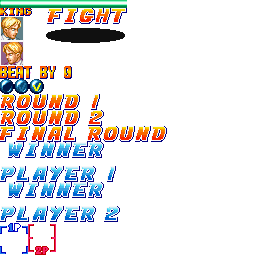
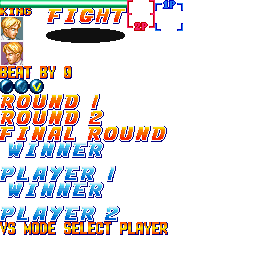
Module CharacterSelection improved

diff --git a/Art_Of_Fighting/ModuleCharacterSelect.cpp b/Art_Of_Fighting/ModuleCharacterSelect.cpp
@@ -12,12 +12,28 @@
 
 ModuleCharacterSelect::ModuleCharacterSelect()
 {
+	graphics = NULL;
+	graphicsUI = NULL;
+
 	background.x = 0;
 	background.y = 0;
 	background.h = 224;
 	background.w = 304;
 
+	SquareP1.x = 155;
+	SquareP1.y = 0;
+	SquareP1.w = 28;
+	SquareP1.h = 31;
 
+	SquareP2.x = 127;
+	SquareP2.y = 0;
+	SquareP2.w = 28;
+	SquareP2.h = 31;
+
+	SelectPlayer.x = 0;
+	SelectPlayer.y = 222;
+	SelectPlayer.w = 168;
+	SelectPlayer.h = 13;
 }
 
 ModuleCharacterSelect::~ModuleCharacterSelect()
@@ -28,12 +44,11 @@ bool ModuleCharacterSelect::Start()
 	LOG("Loading background assets");
 	bool ret = true;
 
-	graphics_selection = App->textures->Load("media/CharacterSelection/BackgroundSelection.png");
-	/*introTexture = App->textures->Load("media/WelcomeScreen/introtitle.png");
-	welcomeScreenMusic = App->audio->LoadMusic("media/Music/welcomescreen.ogg");
+	graphics = App->textures->Load("media/CharacterSelection/BackgroundSelection.png");
+	graphicsUI = App->textures->Load("media/UI/ui.png");
 
 	
-	App->audio->PlayMusic(welcomeScreenMusic);*/
+	App->audio->PlayMusic(welcomeScreenMusic);
 
 	App->render->camera.x = 0;
 	App->render->camera.y = 0;
@@ -48,7 +63,8 @@ bool ModuleCharacterSelect::CleanUp()
 	LOG("Unloading honda stage");
 	App->player->Disable();
 	App->player2->Disable();
-	App->textures->Unload(graphics_selection);
+	App->textures->Unload(graphics);
+	App->textures->Unload(graphicsUI);
 	App->audio->UnLoadMusic(welcomeScreenMusic);
 
 
@@ -56,61 +72,16 @@ bool ModuleCharacterSelect::CleanUp()
 	return true;
 }
 
-//void ModuleCharacterSelect::RenderWords()
-//{
-//	/*App->render->BlitWithScale(introTexture, of.position.x, of.position.y, &(of.rect), of.scale, 1.0f, 1.0f, MIDDLE);
-//	App->render->Blit(introTexture, art.position.x, art.position.y, &(art.rect));
-//	App->render->Blit(introTexture, fighting.position.x, fighting.position.y, &(fighting.rect));*/
-//	//App->render->DrawQuad({ 0, 0, SCREEN_WIDTH, SCREEN_HEIGHT }, 255, 255, 255, 255 * (1 - of.scale), true);
-//}
 
 update_status ModuleCharacterSelect::Update()
 {
-	// Draw everything --------------------------------------
-	//switch (animationState)
-	//{
-	//case Enter:
-	//	art.position += finalArtPosition1;
-	//	of.scale += 0.02f;
-	//	step++;
-	//	if (step >= 40)
-	//	{
-	//		animationState = GoBack;
-	//		step = 0;
-	//	}
-	//	RenderWords();
-	//	break;
-	//case GoBack:
-	//	art.position -= finalArtPosition2;
-	//	of.scale += 0.02f;
-	//	fighting.position += {0, -4};
+	
 
-	//	step++;
-	//	if (step >= 20)
-	//	{
-	//		step = 0;
-	//		animationState = Fighting;
-	//	}
-	//	RenderWords();
-	//	break;
-	//case Fighting:
-	//	fighting.position += {0, -7};
-	//	step++;
-	//	if (step >= 20)
-	//	{
-	//		animationState = Done;
-	//	}
-	//	RenderWords();
-	//	break;
-	//case Done:
-	//	//RenderWords();
-	//	App->render->Blit(graphics, 0, 0, &(Welcomeimage.GetCurrentFrame()));
-	//	break;
-	//default:
-	//	break;
-	//}
+	App->render->Blit(graphics, 0, 0, &background, 0.0);
+	App->render->Blit(graphicsUI, 70, 15, &SelectPlayer, 0.0);
+	App->render->Blit(graphicsUI, 96, 151, &SquareP1, 0.0);
+	App->render->Blit(graphicsUI, 96, 182, &SquareP2, 0.0);
 
-	App->render->Blit(graphics_selection, 0, 0, &background);
 
 	if (App->input->keyboard[SDL_SCANCODE_SPACE] == 1)
 	{

diff --git a/Art_Of_Fighting/ModuleCharacterSelect.h b/Art_Of_Fighting/ModuleCharacterSelect.h
@@ -20,10 +20,15 @@ public:
 
 public:
 
-	SDL_Texture* graphics_selection = nullptr;
+	SDL_Texture* graphics = nullptr;
+	SDL_Texture* graphicsUI = nullptr;
 	SDL_Rect background;
+	SDL_Rect SquareP1;
+	SDL_Rect SquareP2;
+	SDL_Rect SelectPlayer;
 
-	Animation PlayerSelection;						//to blink the selection
+
+	
 	int welcomeScreenMusic = 0;
 
 private:

diff --git a/Art_Of_Fighting/Globals.h b/Art_Of_Fighting/Globals.h
@@ -27,7 +27,7 @@ typedef unsigned int uint;
 #define SCREEN_WIDTH 304
 #define SCREEN_HEIGHT 224
 #define WIN_FULLSCREEN 0
-#define WIN_FULLSCREEN_DESKTOP 2
+#define WIN_FULLSCREEN_DESKTOP 1
 #define WIN_BORDERLESS 0
 #define WIN_RESIZABLE 0
 #define REN_VSYNC 1
